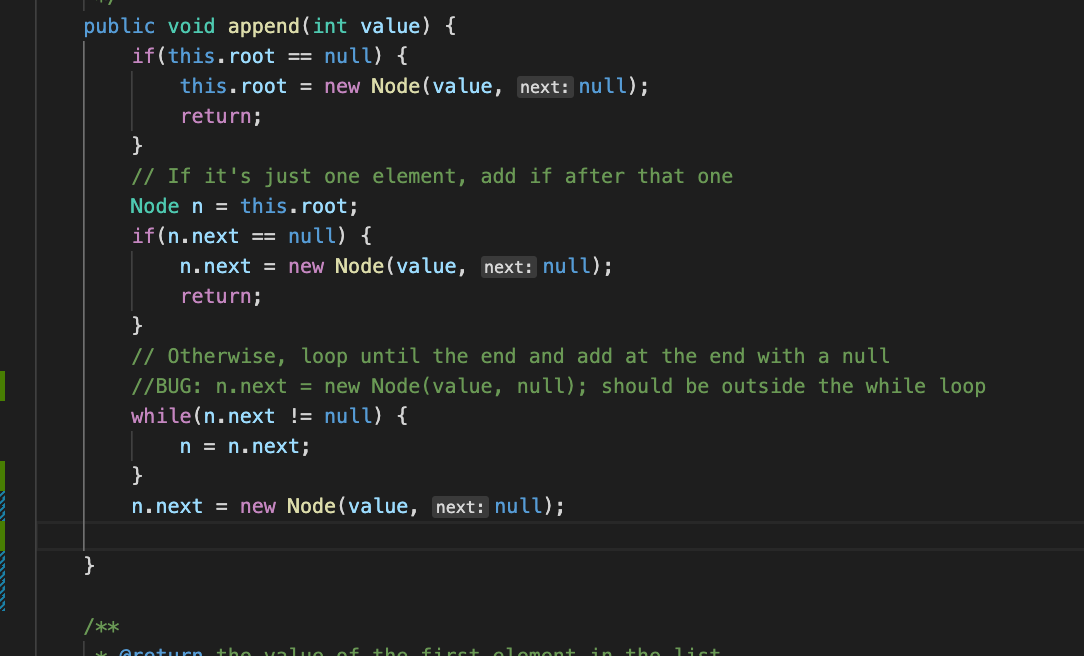
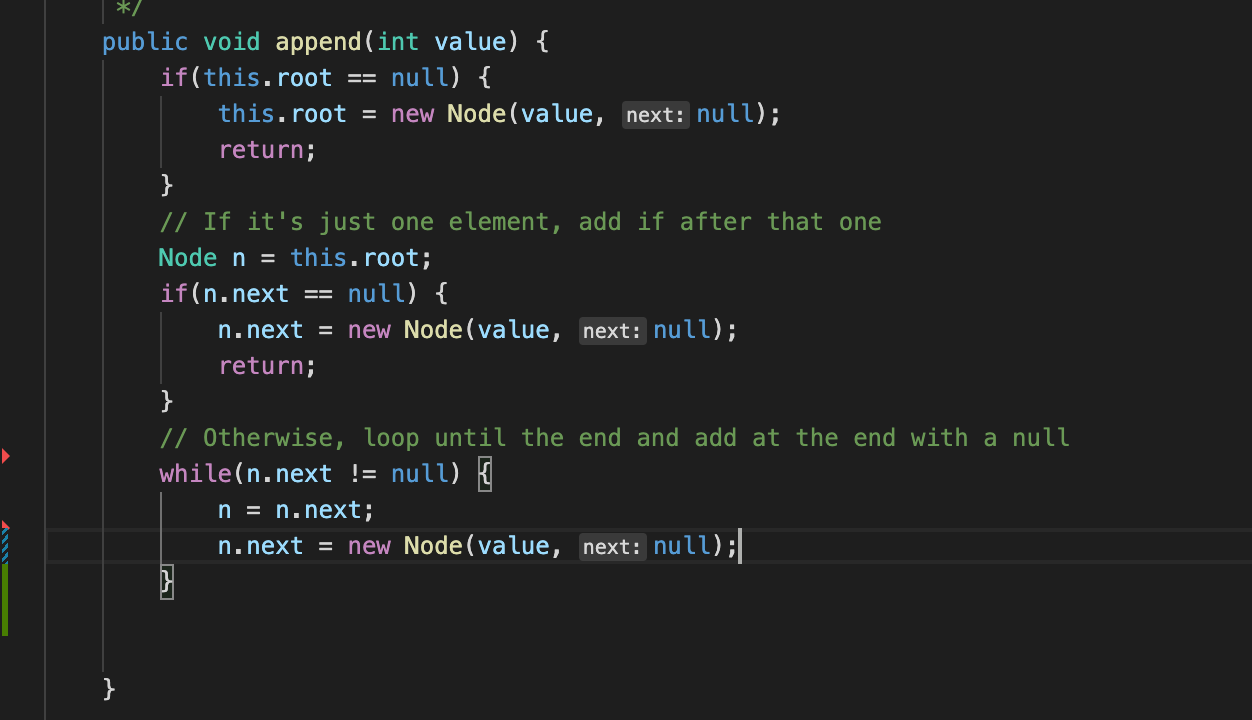
fixed images

diff --git a/lab-report-2-week-3.md b/lab-report-2-week-3.md
@@ -22,6 +22,10 @@ BUG : move  "n.next = new Node(value, null);" from in the while loop to outside 
 
 ![Image](LL_Append_Bug.png)
 
+CHANGED : method after making change
+
+![Image](LL_Append_Bug.png)
+
 ```
 >## 2. 
 ```
@@ -41,5 +45,9 @@ SYMPTOM :
 BUG :
 
 ![Image](Files_GetFiles_Bugs.png)
+
+CHANGED : 
+
+![Image](Files_GetFiles_Changed.png)
 
 ```
